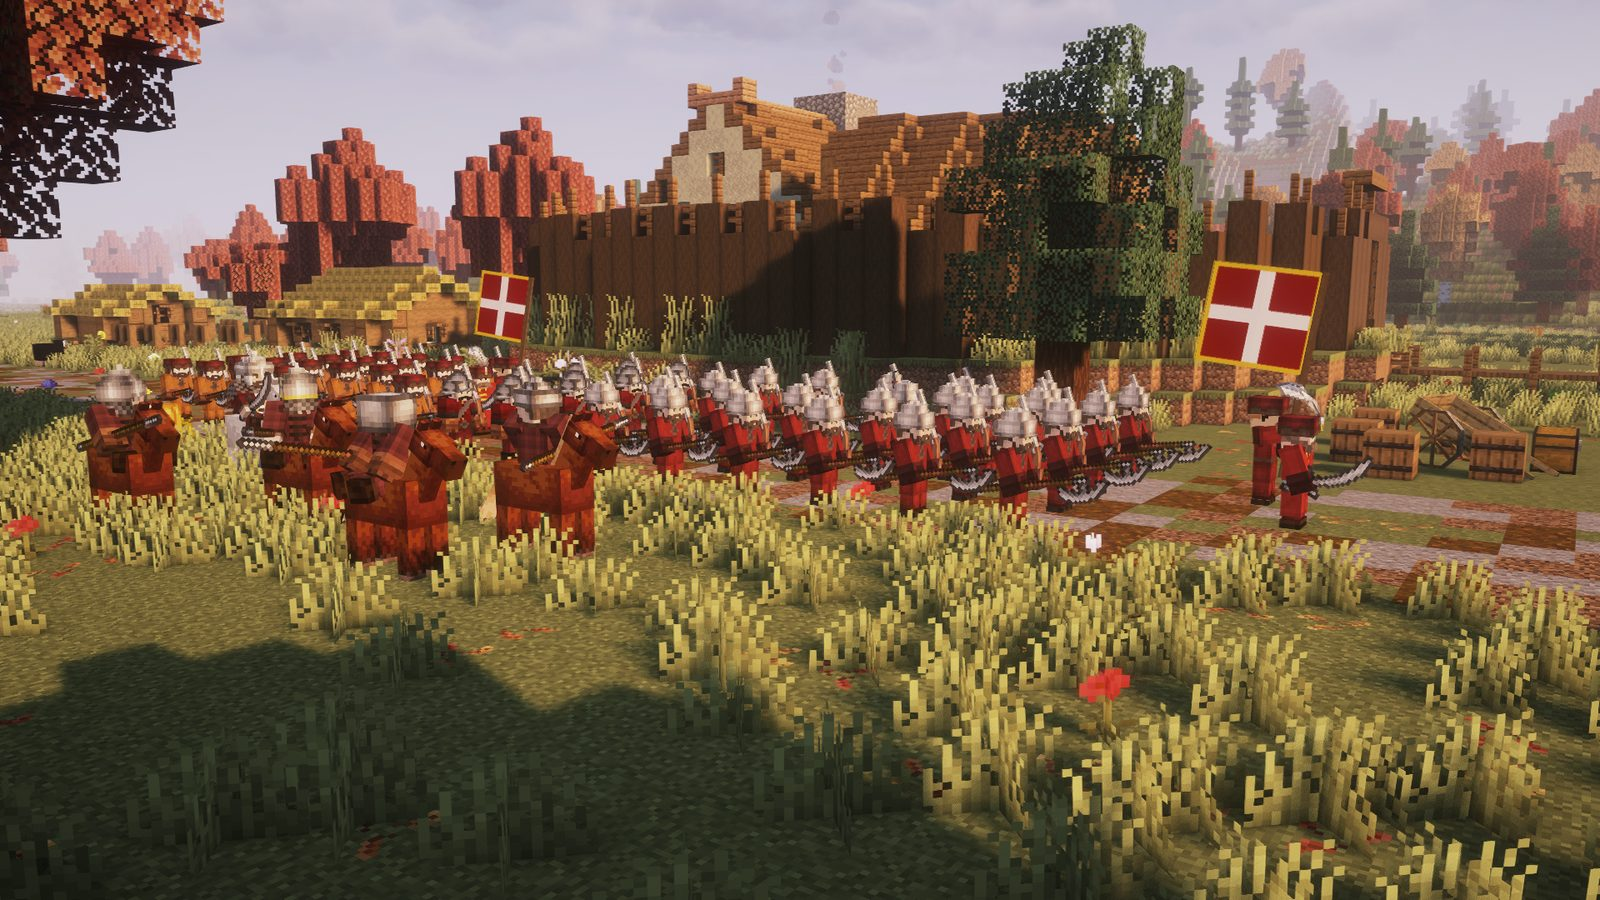
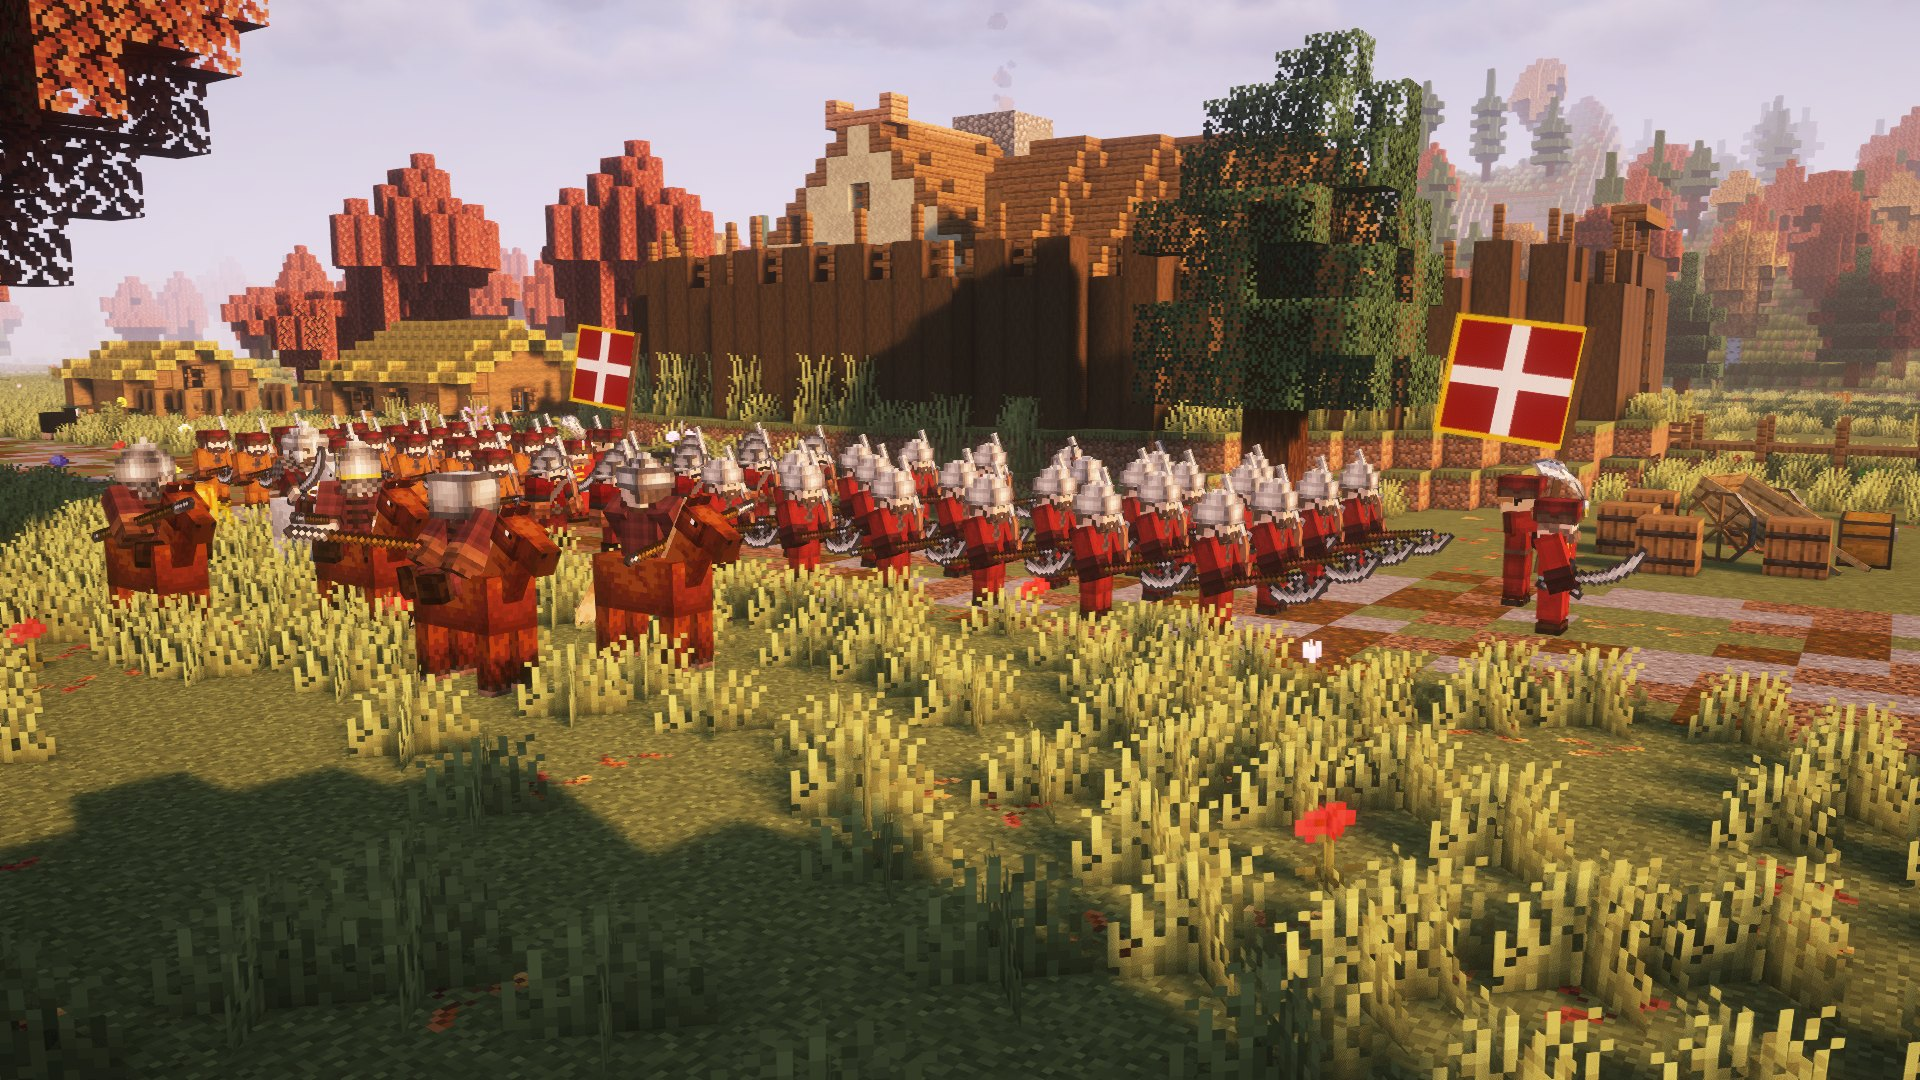
Securite : signature du manifest + pseudo scelle, fonds refaits
- Signature Ed25519 du manifest activee (cle publique dans config.js), manifest signe.
- Pseudo du registre scelle par HMAC (auth/lock.js) : une edition manuelle est
  detectee et reparee depuis une copie signee de secours ; migration douce des
  anciens installs.
- Fonds du launcher remplaces par de vraies captures du serveur (armee, chateau,
  chevaliers, couchant).

diff --git a/src/main/store.js b/src/main/store.js
@@ -6,6 +6,7 @@ const os = require('os');
 const { execFileSync } = require('child_process');
 const paths = require('./game/paths');
 const config = require('../shared/config');
+const lock = require('./auth/lock');
 
 /** Persistance en JSON des preferences, du pseudo et du temps de jeu. */
 
@@ -23,40 +24,102 @@ function fichierPseudo() {
   return path.join(base, 'pseudo');
 }
 
-function lireRegistre() {
-  // Un contenu abime ne doit pas rendre le launcher inutilisable : on l'ignore.
-  const valide = (pseudo) => (PSEUDO.test(String(pseudo || '')) ? pseudo : null);
-  if (process.platform !== 'win32') {
-    try {
-      return valide(fs.readFileSync(fichierPseudo(), 'utf8').trim());
-    } catch {
-      return null; // jamais enregistre sur cette machine
-    }
-  }
+/** Copie scellée de secours, dans les données du launcher. Sert à réparer le
+ *  registre si sa valeur a été éditée à la main. */
+function fichierSecours() {
   try {
-    const sortie = execFileSync('reg', ['query', REGISTRE, '/v', 'Pseudo'], {
-      encoding: 'utf8',
-      windowsHide: true,
-      stdio: ['ignore', 'pipe', 'ignore'],
-    });
-    return valide(sortie.match(/Pseudo\s+REG_SZ\s+(\S+)/)?.[1]);
+    return path.join(paths.userData, 'pseudo.lock');
   } catch {
-    return null; // cle absente
+    return null;
   }
 }
 
+const estPseudo = (p) => (PSEUDO.test(String(p || '')) ? String(p) : null);
+
+/** Lit la source principale : {pseudo, sig}. */
+function lirePrincipal() {
+  if (process.platform !== 'win32') {
+    try {
+      const [p, s] = fs.readFileSync(fichierPseudo(), 'utf8').split('\n');
+      return { pseudo: estPseudo((p || '').trim()), sig: (s || '').trim() || null };
+    } catch {
+      return { pseudo: null, sig: null };
+    }
+  }
+  const lireValeur = (nom) => {
+    try {
+      const sortie = execFileSync('reg', ['query', REGISTRE, '/v', nom], {
+        encoding: 'utf8', windowsHide: true, stdio: ['ignore', 'pipe', 'ignore'],
+      });
+      return sortie.match(new RegExp(`${nom}\\s+REG_SZ\\s+(\\S+)`))?.[1] || null;
+    } catch {
+      return null;
+    }
+  };
+  return { pseudo: estPseudo(lireValeur('Pseudo')), sig: lireValeur('Sig') };
+}
+
+function lireSecours() {
+  const file = fichierSecours();
+  if (!file) return null;
+  try {
+    const d = JSON.parse(fs.readFileSync(file, 'utf8'));
+    return lock.sceauValide(d.pseudo, d.sig) ? estPseudo(d.pseudo) : null;
+  } catch {
+    return null;
+  }
+}
+
+function lireRegistre() {
+  const principal = lirePrincipal();
+
+  // Cas normal : valeur scellée et intacte.
+  if (principal.pseudo && principal.sig && lock.sceauValide(principal.pseudo, principal.sig)) {
+    return principal.pseudo;
+  }
+
+  // Valeur éditée à la main (ou sceau faux) : on répare depuis la copie de secours.
+  const secours = lireSecours();
+  if (secours) {
+    ecrireRegistre(secours); // réécrit le registre avec la bonne valeur scellée
+    return secours;
+  }
+
+  // Migration douce : ancien launcher (pseudo sans sceau) dont le compte local
+  // confirme la légitimité → on scelle cette valeur une fois.
+  if (principal.pseudo && !principal.sig) {
+    const compte = readJson(paths.accountsFile, {}).account;
+    if (compte && compte.name === principal.pseudo) {
+      ecrireRegistre(principal.pseudo);
+      return principal.pseudo;
+    }
+  }
+
+  return null; // jamais enregistré, ou édité sans copie de secours valide
+}
+
 function ecrireRegistre(pseudo) {
+  if (!estPseudo(pseudo)) return;
+  const sig = lock.sceau(pseudo);
+  // Copie de secours scellée (sert à réparer une édition manuelle du registre).
+  try {
+    const file = fichierSecours();
+    if (file) {
+      fs.mkdirSync(path.dirname(file), { recursive: true });
+      fs.writeFileSync(file, JSON.stringify({ pseudo, sig }), 'utf8');
+    }
+  } catch { /* la source principale reste la référence */ }
   try {
     if (process.platform !== 'win32') {
       const file = fichierPseudo();
       fs.mkdirSync(path.dirname(file), { recursive: true });
-      fs.writeFileSync(file, `${pseudo}\n`, 'utf8');
+      fs.writeFileSync(file, `${pseudo}\n${sig}\n`, 'utf8');
       return;
     }
-    execFileSync('reg', ['add', REGISTRE, '/v', 'Pseudo', '/t', 'REG_SZ', '/d', pseudo, '/f'], {
-      windowsHide: true,
-      stdio: 'ignore',
-    });
+    execFileSync('reg', ['add', REGISTRE, '/v', 'Pseudo', '/t', 'REG_SZ', '/d', pseudo, '/f'],
+      { windowsHide: true, stdio: 'ignore' });
+    execFileSync('reg', ['add', REGISTRE, '/v', 'Sig', '/t', 'REG_SZ', '/d', sig, '/f'],
+      { windowsHide: true, stdio: 'ignore' });
   } catch {
     // Filet de securite seulement : le fichier du compte reste la reference.
   }

diff --git a/src/main/auth/lock.js b/src/main/auth/lock.js
@@ -1,0 +1,40 @@
+'use strict';
+
+const crypto = require('crypto');
+
+/**
+ * Scellé du pseudo.
+ *
+ * Le pseudo est gravé dans le registre (Windows) pour rester le même d'une
+ * installation à l'autre. Problème : n'importe qui peut ouvrir regedit et
+ * changer cette valeur à la main. On scelle donc le pseudo avec un HMAC : le
+ * launcher n'accepte une valeur du registre que si son sceau correspond. Une
+ * valeur éditée à la main n'a pas le bon sceau → elle est rejetée, et le
+ * launcher se répare à partir d'une copie scellée de secours.
+ *
+ * Honnêteté : le secret ci-dessous vit dans le code du launcher, qui tourne sur
+ * la machine du joueur. Quelqu'un de déterminé (ou une IA) peut l'extraire et
+ * forger un sceau. Ce n'est donc pas une barrière absolue, mais un ralentisseur
+ * sérieux contre l'édition « à la main ». La vraie protection du compte reste le
+ * mot de passe AuthMe, côté serveur.
+ */
+
+// Secret de scellage (propre à ce launcher). L'obfuscation de build le masque.
[1 lines of base64/hex data omitted]
+
+function sceau(pseudo) {
+  return crypto.createHmac('sha256', SECRET).update(`aethoria:pseudo:${String(pseudo)}`, 'utf8').digest('hex');
+}
+
+function sceauValide(pseudo, sig) {
+  if (typeof pseudo !== 'string' || typeof sig !== 'string') return false;
+  const attendu = sceau(pseudo);
+  if (sig.length !== attendu.length) return false;
+  try {
+    return crypto.timingSafeEqual(Buffer.from(sig, 'hex'), Buffer.from(attendu, 'hex'));
+  } catch {
+    return false;
+  }
+}
+
+module.exports = { sceau, sceauValide };

diff --git a/src/shared/config.js b/src/shared/config.js
@@ -58,7 +58,7 @@ module.exports = {
   // Cle publique (base64) qui signe le manifest : voir tools/sign-manifest.js.
   // Vide = signature non exigee. Une fois renseignee, tout manifest non signe,
   // y compris la copie gardee sur le disque du joueur, est refuse.
-  manifestPublicKey: '',
+  manifestPublicKey: 'MCowBQYDK2VwAyEAJ10iWKrSUN+v57KFjFGgnZ+HUtikviu1P2dvZ/FLgSg=',
 
   get manifestUrl() {
     return `https://raw.githubusercontent.com/${this.github.distOwner}/${this.github.dist}/${this.github.branch}/manifest.json`;
